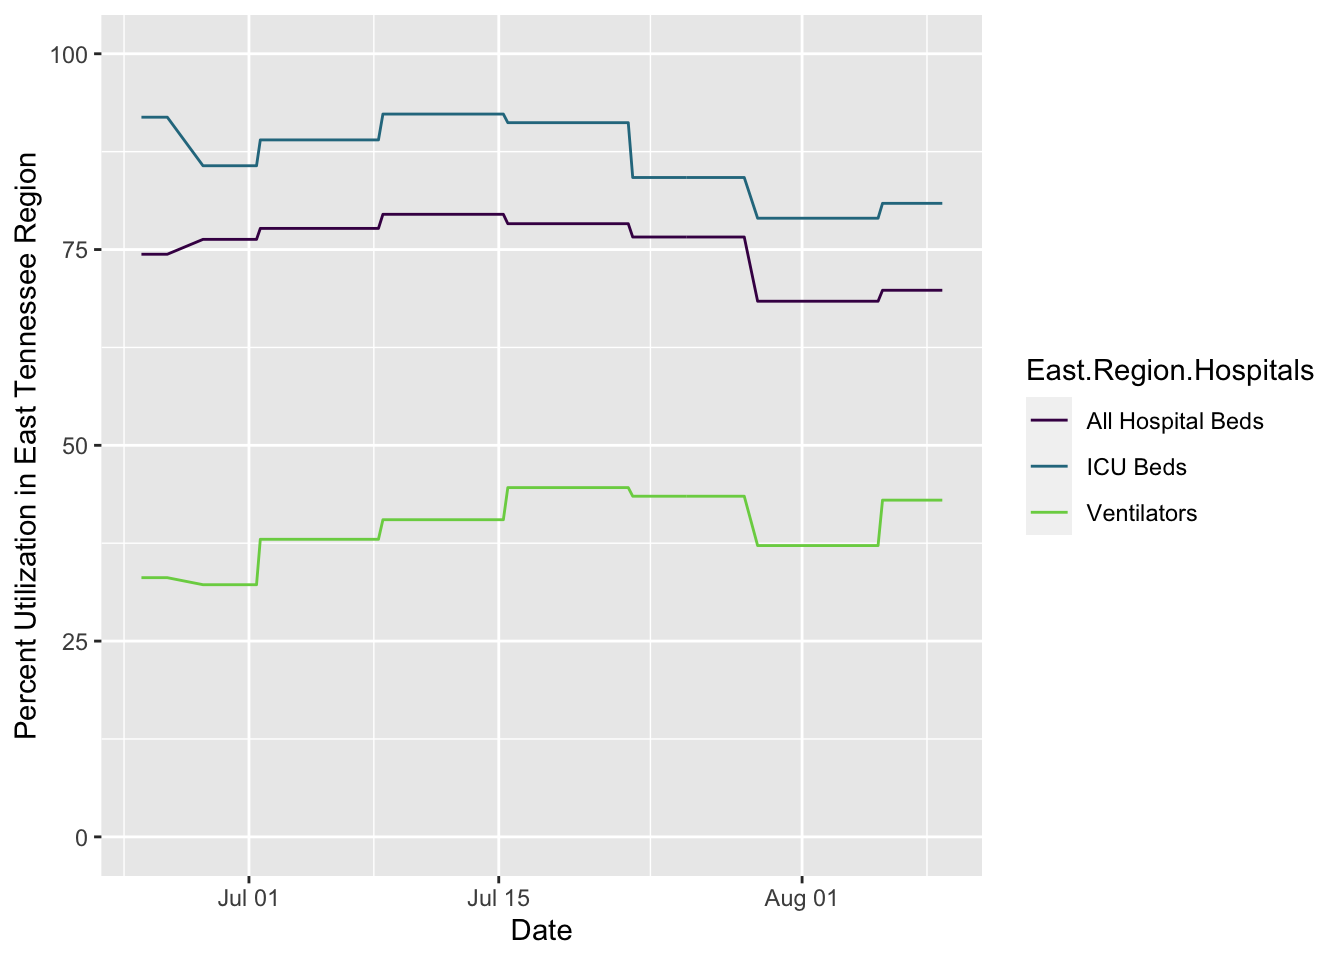
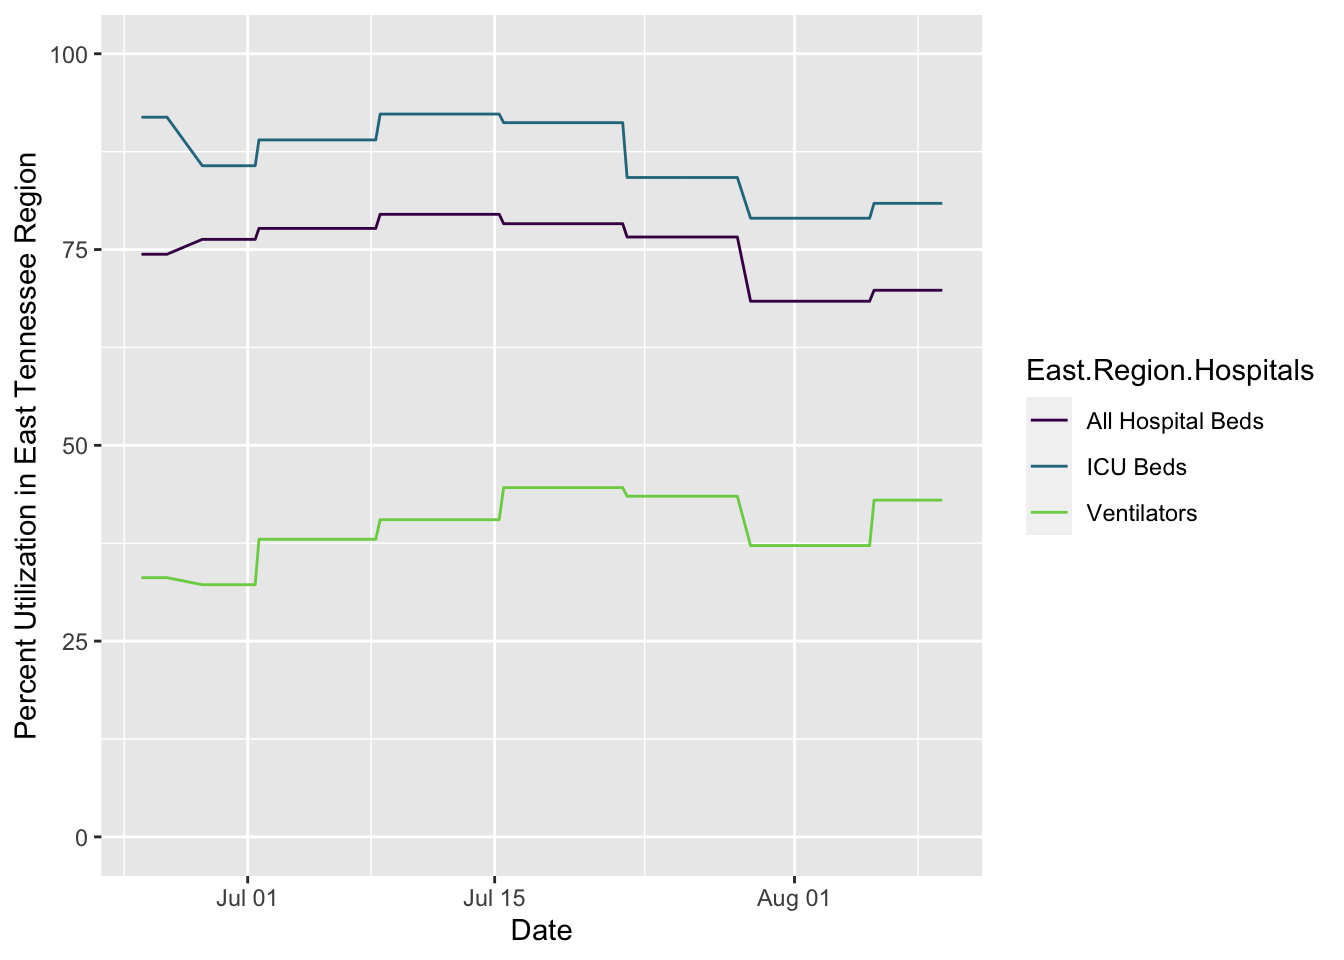
updating site

diff --git a/docs/covid.html b/docs/covid.html
@@ -423,7 +423,7 @@ $(document).ready(function () {
 <li>Info about cases at <a href="#ut">U. of Tennessee, Knoxville</a> (using public information only)</li>
 <li><a href="#webcams">Webcams</a> showing activity at local sites, though not quite at the resolution to point to mask usage or not</li>
 </ul>
-<p>The following plots are created in R using data from <a href="https://covid19datahub.io" class="uri">https://covid19datahub.io</a> (Guidotti, E., Ardia, D., (2020), “COVID-19 Data Hub”, Working paper, doi: 10.13140/RG.2.2.11649.81763), as well as information from Google and the <a href="https://www.tn.gov/health/cedep/ncov/data/downloadable-datasets.html">state of Tennessee dataset page</a> and plotting and analysis using the <code>forecast</code>, <code>ggplot2</code>, <code>reshape2</code>, and <code>dplyr</code> packages. Plots created on 2020-08-08 20:36:29. I use <code>ggplot2</code>’s <code>geom_smooth()</code> function for the smoothed regression plots with its default formula, which uses loess smoothing for this many points. This is not based on a model of disease spread or anything similarly sophisticated, just drawing a smooth curve to summarize noisy points (see <a href="https://www.itl.nist.gov/div898/handbook/pmd/section1/pmd144.htm">here</a> for more details).</p>
+<p>The following plots are created in R using data from <a href="https://covid19datahub.io" class="uri">https://covid19datahub.io</a> (Guidotti, E., Ardia, D., (2020), “COVID-19 Data Hub”, Working paper, doi: 10.13140/RG.2.2.11649.81763), as well as information from Google and the <a href="https://www.tn.gov/health/cedep/ncov/data/downloadable-datasets.html">state of Tennessee dataset page</a> and plotting and analysis using the <code>forecast</code>, <code>ggplot2</code>, <code>reshape2</code>, and <code>dplyr</code> packages. Plots created on 2020-08-09 09:04:44. I use <code>ggplot2</code>’s <code>geom_smooth()</code> function for the smoothed regression plots with its default formula, which uses loess smoothing for this many points. This is not based on a model of disease spread or anything similarly sophisticated, just drawing a smooth curve to summarize noisy points (see <a href="https://www.itl.nist.gov/div898/handbook/pmd/section1/pmd144.htm">here</a> for more details).</p>
 <h2 id="cases">
 Cases
 </h2>
@@ -461,7 +461,7 @@ Schooling
 <h2 id="hospitalization">
 Hospitalization
 </h2>
-<p>As of the last time the data were updated (likely 3 days ago), regional hospitals had 53 ICU beds available of 278 total, and 142 available ventilators out of 249 total. This is based on 19 acute care hospitals in the East TN region; based on the 14 counties these hospitals are in, these serve at least 1,235,720 people. When a line hits 100%, the local hospitals are theoretically full for that resource (for all patients, not just covid patients), though there is surge capacity on top of this. Note that these data are updated only weekly, so current conditions maybe be much better or worse than these plots show. Data on capacity from Knox County’s dashboard, data on hospitalizations and testing over time from the state data.</p>
+<p>As of the last time the data were updated (likely 4 days ago), regional hospitals had 53 ICU beds available of 278 total, and 142 available ventilators out of 249 total. This is based on 19 acute care hospitals in the East TN region; based on the 14 counties these hospitals are in, these serve at least 1,235,720 people. When a line hits 100%, the local hospitals are theoretically full for that resource (for all patients, not just covid patients), though there is surge capacity on top of this. Note that these data are updated only weekly, so current conditions maybe be much better or worse than these plots show. Data on capacity from Knox County’s dashboard, data on hospitalizations and testing over time from the state data.</p>
 <p><img src="covid_files/figure-html/hospitalcapacityplot-1.png" width="672" /></p>
 <p>Trends in hospitalization of covid patients over time. The vertical dotted line shows the last day with updated capacity information, when there were 53 ICU beds available (ignoring surge capacity) for people in the East Tennessee region.</p>
 <p><img src="covid_files/figure-html/plotsD-1.png" width="672" /></p>
